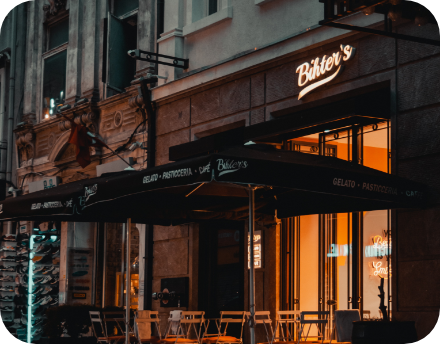
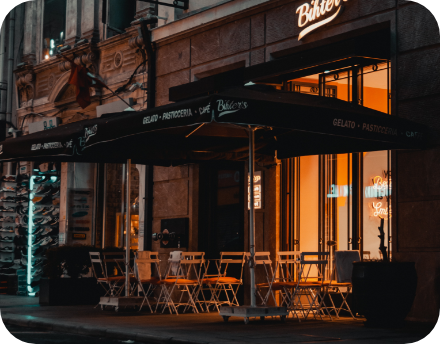
Store appearance[html f]

diff --git a/クリエイティブワーク/visual.html b/クリエイティブワーク/visual.html
@@ -50,12 +50,12 @@
                 </p>
             </div>
             <div class="v_line_fix"></div>
-            <img src="images/hamburger_index.png" alt="ハンバーガー" class="Imghamburger">
+            <img src="images/store_02.png" alt="店の外見" class="Imghamburger">
             <div class="hamburger">
-                <h3 class="headlinehamburger">Hamburger</h3>
-                <p class="Texthamburger"> <span class="strong">ふわっ</span>としたモチモチなバンズに<br>
-                    <span class="strongWrap">肉肉しい</span>ハンバーグ<br>
-                    チーズととてもマッチ<br>
+                <h3 class="headlinehamburger">Store appearance</h3>
+                <p class="Texthamburger">店内の雰囲気を外からでも<br>
+                    見えることで通りにすがりにも<br>
+                    安心して入りたくなる<br>
                 </p>
             </div>
             <div class="v_line_fix"></div>
